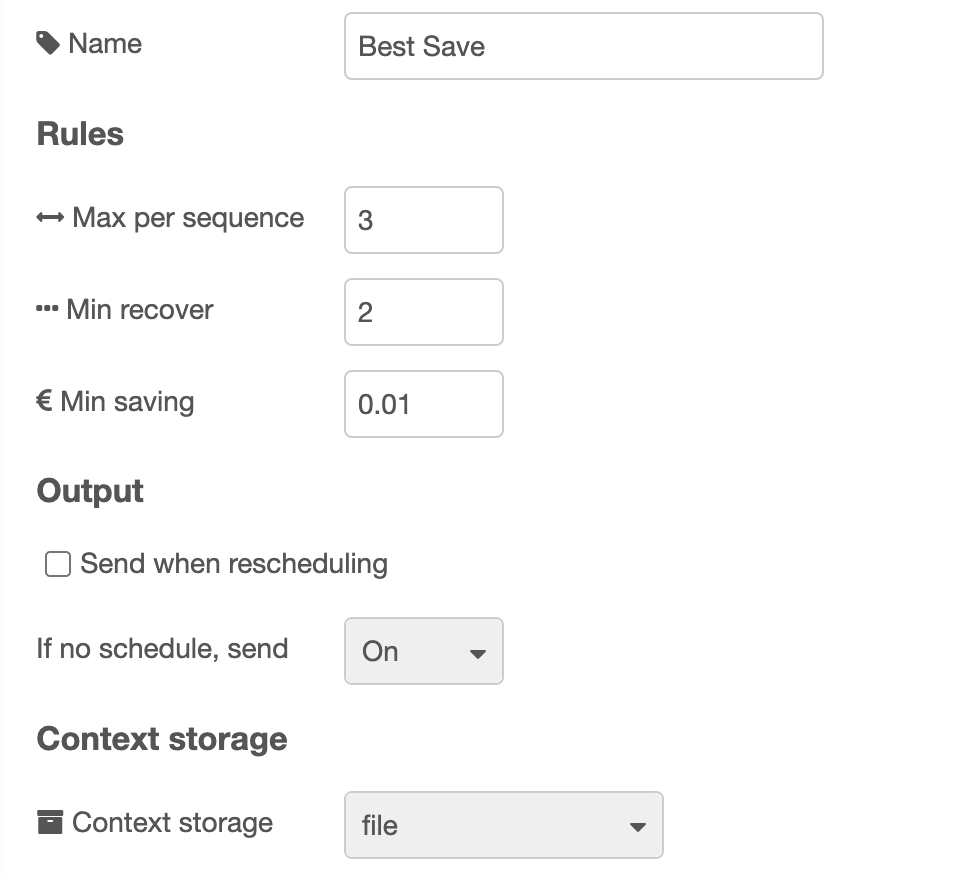
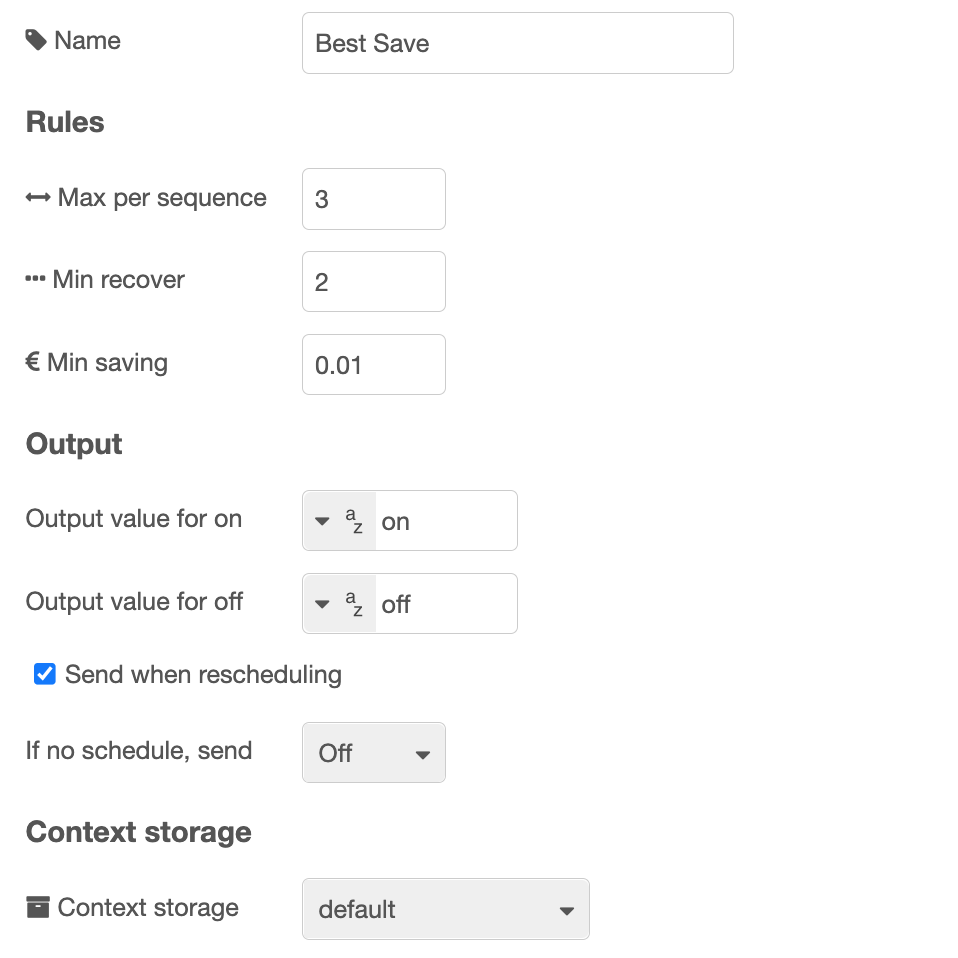
Update doc

diff --git a/src/strategy-best-save.js b/src/strategy-best-save.js
@@ -9,16 +9,16 @@ module.exports = function (RED) {
     node.status({});
 
     const validConfig = {
+      contextStorage: config.contextStorage || "default",
       maxHoursToSaveInSequence: config.maxHoursToSaveInSequence,
       minHoursOnAfterMaxSequenceSaved: config.minHoursOnAfterMaxSequenceSaved,
       minSaving: parseFloat(config.minSaving),
-      sendCurrentValueWhenRescheduling: config.sendCurrentValueWhenRescheduling,
       outputIfNoSchedule: booleanConfig(config.outputIfNoSchedule),
       outputValueForOn: config.outputValueForOn || true,
       outputValueForOff: config.outputValueForOff || false,
       outputValueForOntype: config.outputValueForOntype || "bool",
       outputValueForOfftype: config.outputValueForOfftype || "bool",
-      contextStorage: config.contextStorage || "default",
+      sendCurrentValueWhenRescheduling: config.sendCurrentValueWhenRescheduling,
     };
 
     fixOutputValues(validConfig);

diff --git a/docs/nodes/ps-strategy-best-save.md b/docs/nodes/ps-strategy-best-save.md
@@ -18,14 +18,16 @@ The picture at the bottom of the page, under [Integration with MagicMirror](#int
 
 ![Best Save Config](../images/best-save-config.png)
 
-| Value                  | Description                                                                                                                                                          |
-| ---------------------- | -------------------------------------------------------------------------------------------------------------------------------------------------------------------- |
-| Max per sequence       | Maximum number of hours to turn off in a sequence.                                                                                                                   |
-| Min recover            | Minimum hours to turn on immediately after a period when turned off the maximum number of hours that is allowed to be turned off                                     |
-| Min saving             | Minimum amount to save per kWh in order to bother turning it off. It is recommended to have some amount here, e.g. 2 cents / 2 øre. No point in saving 0.001, is it? |
-| Send when rescheduling | Check this to make sure on or off output is sent immediately after rescheduling                                                                                      |
-| If no schedule, send   | What to do if there is no valid schedule any more (turn on or off).                                                                                                  |
-| Context storage        | Select context storage to save data to, if more than one is configured in the Node-RED `settings.js` file.                                                           |
+| Value                  |                                                                                                                                                                                                |
+| ---------------------- | ---------------------------------------------------------------------------------------------------------------------------------------------------------------------------------------------- |
+| Max per sequence       | Maximum number of hours to turn off in a sequence                                                                                                                                              |
+| Min recover            | Minimum hours to turn on immediately after a period when turned off the maximum number of hours that is allowed to be turned off                                                               |
+| Min saving             | Minimum amount to save per kWh in order to bother turning it off. It is recommended to have some amount here, e.g. 2 cents / 2 øre. No point in saving 0.001, is it?                           |
+| Output value for on    | Set what value to output on output 1 in order to turn on. Default is `boolean true`. You can also select a `number`, for example `1`, or a `string`, for example `on`, or any other value.     |
+| Output value for off   | Set what value to output on output 2 in order to turn off. Default is `boolean false`. You can also select a `number`, for example `0`, or a `string`, for example `off`, or any other value.  |
+| Send when rescheduling | Check this to make sure on or off output is sent immediately after rescheduling. If unchecked, the output is sent only if it has not been sent before, or is different from the current value. |
+| If no schedule, send   | What to do if there is no valid schedule any more (turn on or off). This value will be sent also before there is any valid schedule, or after the last hour there is price data for.           |
+| Context storage        | Select context storage to save data to, if more than one is configured in the Node-RED `settings.js` file.                                                                                     |
 
 ::: warning Min recover
 NB! The `Min recover` only has effect if the previous save-period is of length `Max per sequence`. If the save-period is shorter, the following on-period may be as short as one hour.
@@ -39,17 +41,26 @@ It is possible to change config dynamically by sending a config message to the n
 "payload": {
   "config": {
     "contextStorage": "file",
-    "hasChanged": false,
     "maxHoursToSaveInSequence": 4,
     "minHoursOnAfterMaxSequenceSaved": 2,
     "minSaving": 0.02,
     "sendCurrentValueWhenRescheduling": true,
     "outputIfNoSchedule": true,
+    "outputValueForOn": true,
+    "outputValueForOff": false,
+    "outputValueForOntype": "bool",
+    "outputValueForOfftype": "bool",
   }
 }
 ```
 
-All the variables in the config object are optional. You can send only those you want to change.
+::: tip Send only those you need
+All the variables in the config object are optional. You should send only those you want to change.
+:::
+
+Valid values for `outputValueForOntype` and `outputValueForOfftype` are `bool`, `num` and `str` and must correspond
+with the values for `outputValueForOn` and `outputValueForOff`. Also `str` values must be enclosed by quotes, for example:
+`"outputValueForOn": "myvalue"`, while `num` and `bool` values shall not, for example: `"outputValueForOn": 1`.
 
 The config sent like this will be valid until a new config is sent the same way, or until the flow is restarted. On a restart, the original config set up in the node will be used.
 
@@ -61,7 +72,7 @@ However, you can send config and price data in the same message. Then both will 
 
 You can dynamically send some commands to the node via its input, by using a `commands` object in the payload as described below.
 
-Commands can be sent together with config and/or price data, but the exact behavior is not defined.
+Commands can be sent together with config or price data. You can command multiple commands in one message, but then put them all in the same commands-object.
 
 #### sendSchedule
 
@@ -156,11 +167,11 @@ There are three outputs. You use only those you need for your purpose.
 
 ### Output 1
 
-A payload with the word `true` is sent to output 1 whenever the power / switch shall be turned on.
+A payload with the value set in config, default `true`, is sent to output 1 whenever the power / switch shall be turned on.
 
 ### Output 2
 
-A payload with the word `false` is sent to output 2 whenever the power / switch shall be turned off.
+A payload with the value set in config, default `false` is sent to output 2 whenever the power / switch shall be turned off.
 
 ### Output 3
 

diff --git a/docs/nodes/ps-strategy-lowest-price.md b/docs/nodes/ps-strategy-lowest-price.md
@@ -17,17 +17,18 @@ The node can work on a specific period from 1 to 24 hours during a 24 hour perio
 
 ![Node Configuration](../images/lowest-price-config.png)
 
-| Value                  | Description                                                                      |
-| ---------------------- | -------------------------------------------------------------------------------- |
-| From time              | The start time of the selected period.                                           |
-| To time                | The end time of the selected period.                                             |
-| Hours on               | The number of hours that shall be turned on.                                     |
-| Max price              | If set, does not turn on if price is over this limit. See below.                 |
-| Consecutive on-period  | Check this if you need the on-period to be consecutive.                          |
-| Send when rescheduling | Check this to make sure on or off output is sent immediately after rescheduling. |
-| If no schedule, send   | What to do if there is no valid schedule any more (turn on or off).              |
-| Outside period, send   | Select the value to send outside the selected period.                            |
-| Context storage        | Select context storage to save data to, if you want other than the default.      |
+| Value                  | Description                                                                                                                                                                                    |
+| ---------------------- | ---------------------------------------------------------------------------------------------------------------------------------------------------------------------------------------------- |
+| From time              | The start time of the selected period.                                                                                                                                                         |
+| To time                | The end time of the selected period.                                                                                                                                                           |
+| Hours on               | The number of hours that shall be turned on.                                                                                                                                                   |
+| Max price              | If set, does not turn on if price is over this limit. See below.                                                                                                                               |
+| Consecutive on-period  | Check this if you need the on-period to be consecutive.                                                                                                                                        |
+| Output value for on    | Set what value to output on output 1 in order to turn on. Default is `boolean true`. You can also select a `number`, for example `1`, or a `string`, for example `on`, or any other value.     |
+| Output value for off   | Set what value to output on output 2 in order to turn off. Default is `boolean false`. You can also select a `number`, for example `0`, or a `string`, for example `off`, or any other value.  |
+| Send when rescheduling | Check this to make sure on or off output is sent immediately after rescheduling. If unchecked, the output is sent only if it has not been sent before, or is different from the current value. |
+| If no schedule, send   | What to do if there is no valid schedule any more (turn on or off). This value will be sent also before there is any valid schedule, or after the last hour there is price data for.           |
+| Context storage        | Select context storage to save data to, if more than one is configured in the Node-RED `settings.js` file.                                                                                     |
 
 If you want to use a period of 24 hours, set the From Time and To Time to the same value. The time you select is significant in the way that it decides which 24 hours that are considered when finding the hours with lowest price.
 
@@ -84,7 +85,13 @@ It is possible to change config dynamically by sending a config message to the n
 }
 ```
 
-All the variables in the config object are optional. You can send only those you want to change.
+::: tip Send only those you need
+All the variables in the config object are optional. You should send only those you want to change.
+:::
+
+Valid values for `outputValueForOntype` and `outputValueForOfftype` are `bool`, `num` and `str` and must correspond
+with the values for `outputValueForOn` and `outputValueForOff`. Also `str` values must be enclosed by quotes, for example:
+`"outputValueForOn": "myvalue"`, while `num` and `bool` values shall not, for example: `"outputValueForOn": 1`.
 
 The config sent like this will be valid until a new config is sent the same way, or until the flow is restarted. On a restart, the original config set up in the node will be used.
 
@@ -96,7 +103,7 @@ However, you can send config and price data in the same message. Then both will 
 
 You can dynamically send some commands to the node via its input, by using a `commands` object in the payload as described below.
 
-Commands can be sent together with config and/or price data, but the exact behavior is not defined.
+Commands can be sent together with config or price data. You can command multiple commands in one message, but then put them all in the same commands-object.
 
 #### sendSchedule
 
@@ -177,6 +184,18 @@ When Node-RED starts or the flow is redeployed, the config defined in the node r
 The input is the [common strategy input format](./strategy-input.md)
 
 ## Output
+
+There are three outputs. You use only those you need for your purpose.
+
+### Output 1
+
+A payload with the value set in config, default `true`, is sent to output 1 whenever the power / switch shall be turned on.
+
+### Output 2
+
+A payload with the value set in config, default `false` is sent to output 2 whenever the power / switch shall be turned off.
+
+### Output 3
 
 When a valid input is received, and the schedule is recalculated, the resulting schedule, as well as some other information, is sent to output 3. You can use this to see the plan and verify that it meets your expectations. You can also use it to display the schedule in any way you like.
 

diff --git a/docs/nodes/ps-schedule-merger.md b/docs/nodes/ps-schedule-merger.md
@@ -40,11 +40,14 @@ Only if all schedules has the hour set to `on` will the resulting schedule have 
 
 ![Schedule Merger Config](../images/schedule-merger-config.png)
 
-| Value                | Description                                                                                                                                                                   |
-| -------------------- | ----------------------------------------------------------------------------------------------------------------------------------------------------------------------------- |
-| Function             | Merging function, either OR or AND (see above).                                                                                                                               |
-| Delay                | Delay in milliseconds from a schedule is received until a new schedule is calculated. Use this so all schedules can be received before a new schedule is calculated and used. |
-| If no schedule, send | What to do if there is no valid schedule any more (turn on or off).                                                                                                           |
+| Value                  | Description                                                                                                                                                                                    |
+| ---------------------- | ---------------------------------------------------------------------------------------------------------------------------------------------------------------------------------------------- |
+| Function               | Merging function, either OR or AND (see above).                                                                                                                                                |
+| Delay                  | Delay in milliseconds from a schedule is received until a new schedule is calculated. Use this so all schedules can be received before a new schedule is calculated and used.                  |
+| Output value for on    | Set what value to output on output 1 in order to turn on. Default is `boolean true`. You can also select a `number`, for example `1`, or a `string`, for example `on`, or any other value.     |
+| Output value for off   | Set what value to output on output 2 in order to turn off. Default is `boolean false`. You can also select a `number`, for example `0`, or a `string`, for example `off`, or any other value.  |
+| Send when rescheduling | Check this to make sure on or off output is sent immediately after rescheduling. If unchecked, the output is sent only if it has not been sent before, or is different from the current value. |
+| If no schedule, send   | What to do if there is no valid schedule any more (turn on or off). This value will be sent also before there is any valid schedule, or after the last hour there is price data for.           |
 
 ### Dynamic config
 
@@ -56,11 +59,22 @@ It is possible to change config dynamically by sending a config message to the n
     "logicFunction": "OR",
     "schedulingDelay": 2000,
     "outputIfNoSchedule": true,
+    "sendCurrentValueWhenRescheduling": true,
+    "outputValueForOn": true,
+    "outputValueForOff": false,
+    "outputValueForOntype": "bool",
+    "outputValueForOfftype": "bool",
   }
 }
 ```
 
-All the variables in the config object are optional. You can send only those you want to change.
+::: tip Send only those you need
+All the variables in the config object are optional. You should send only those you want to change.
+:::
+
+Valid values for `outputValueForOntype` and `outputValueForOfftype` are `bool`, `num` and `str` and must correspond
+with the values for `outputValueForOn` and `outputValueForOff`. Also `str` values must be enclosed by quotes, for example:
+`"outputValueForOn": "myvalue"`, while `num` and `bool` values shall not, for example: `"outputValueForOn": 1`.
 
 The config sent like this will be valid until a new config is sent the same way, or until the flow is restarted. On a restart, the original config set up in the node will be used.
 
@@ -72,7 +86,7 @@ You cannot send config and other schedules in the same message. If you do, the c
 
 You can dynamically send some commands to the node via its input, by using a `commands` object in the payload as described below.
 
-Commands can be sent together with config or price data.
+Commands can be sent together with config or price data. You can command multiple commands in one message, but then put them all in the same commands-object.
 
 #### sendSchedule
 
@@ -124,8 +138,6 @@ By sending this command, the saved schedules are merged, and new output is sent:
 }
 ```
 
-This is equivalent to sending both `sendSchedule` and `sendOutput` commands.
-
 ### Config saved in context
 
 The nodes config is saved in the nodes context.
@@ -170,11 +182,11 @@ There are three outputs. You use only those you need for your purpose.
 
 ### Output 1
 
-A payload with the word `true` is sent to output 1 whenever the power / switch shall be turned on.
+A payload with the value set in config, default `true`, is sent to output 1 whenever the power / switch shall be turned on.
 
 ### Output 2
 
-A payload with the word `false` is sent to output 2 whenever the power / switch shall be turned off.
+A payload with the value set in config, default `false` is sent to output 2 whenever the power / switch shall be turned off.
 
 ### Output 3
 
